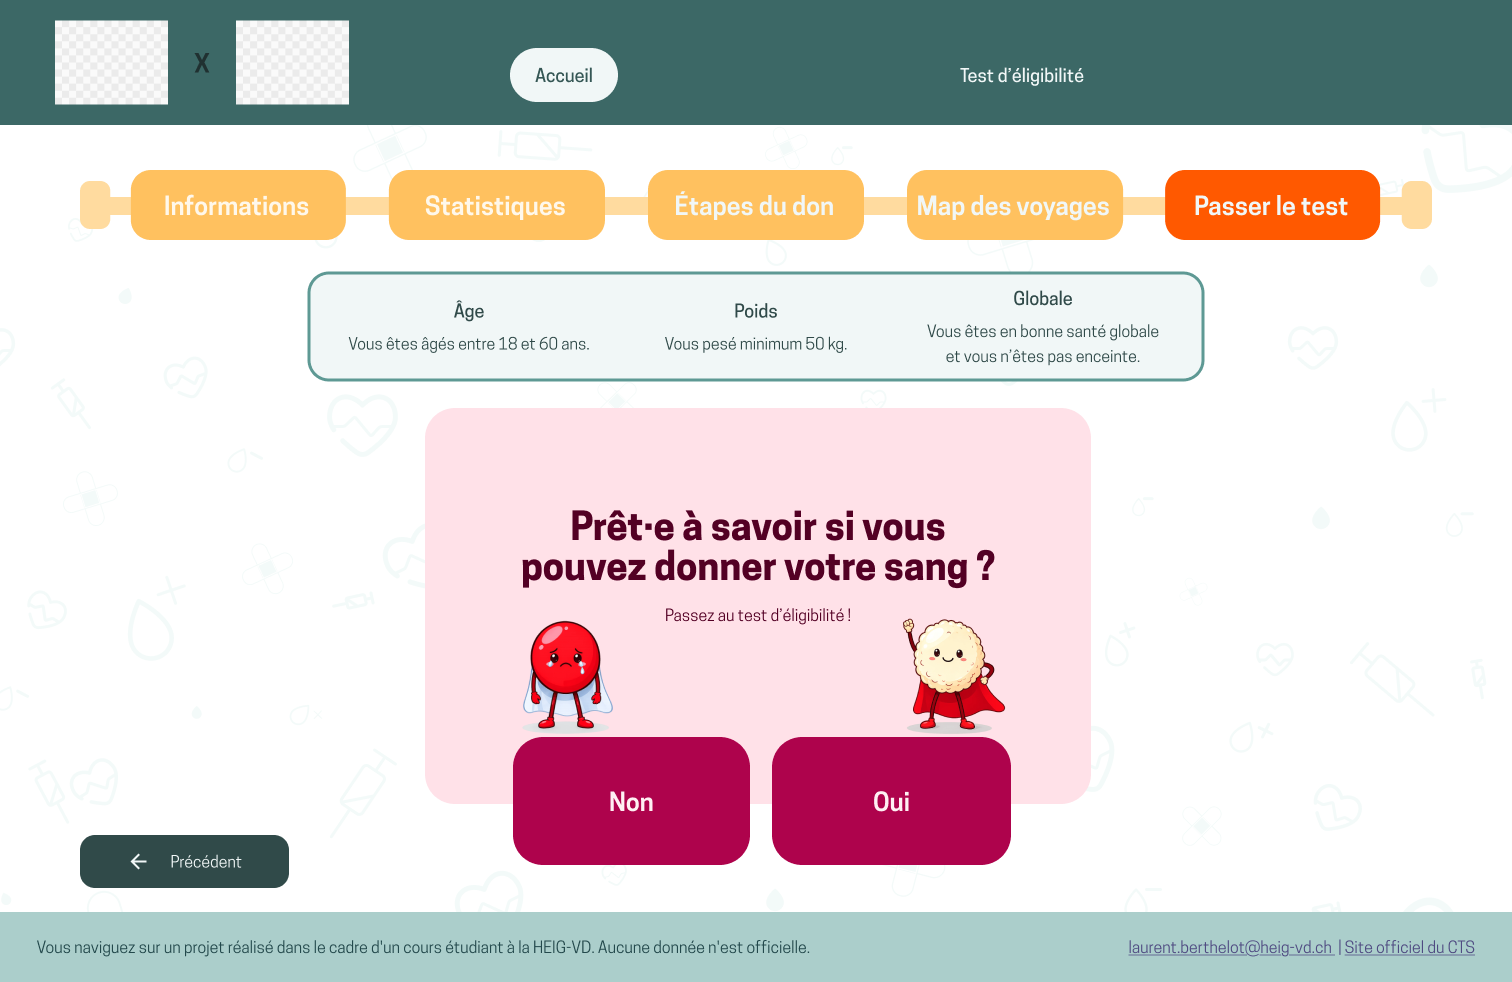
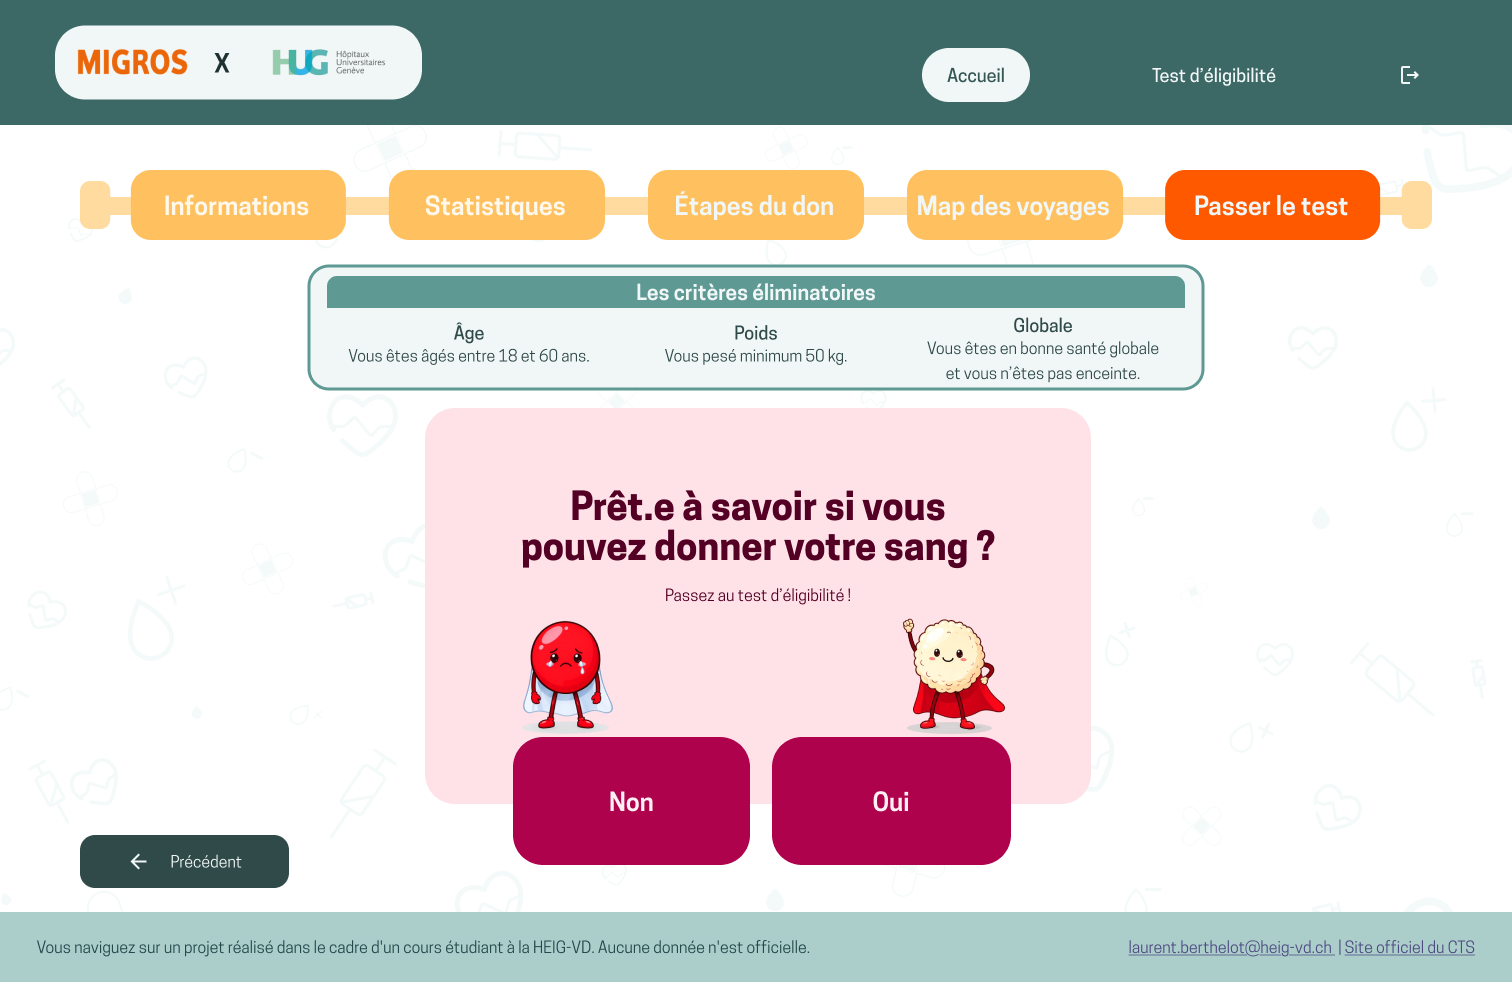
pages co-brandé

diff --git a/resources/js/components/co-branded/tabs/CoBrandedTestTab.vue b/resources/js/components/co-branded/tabs/CoBrandedTestTab.vue
@@ -1,7 +1,5 @@
 <script setup lang="ts">
 import { ref } from 'vue';
-// TODO: brancher TinderEligibilityPrototype quand started === true
-// import TinderEligibilityPrototype from '../../tinder-cards/TinderEligibilityPrototype.vue';
 
 const started = ref(false);
 
@@ -14,43 +12,53 @@ const criteria = [
 
 <template>
     <section class="mx-auto max-w-3xl px-6 py-10">
-        <!-- Critères d'éligibilité -->
-        <div class="rounded-2xl border-2 border-catskillwhite-400 bg-catskillwhite-100 p-6">
-            <div class="grid gap-4 sm:grid-cols-3 sm:divide-x sm:divide-catskillwhite-400">
+        <!-- Critères éliminatoires : carte avec bandeau de titre catskillwhite-800 + 3 colonnes -->
+        <div class="overflow-hidden rounded-2xl border-2 border-catskillwhite-800">
+            <div class="bg-catskillwhite-800 px-6 py-2 text-center">
+                <h3 class="text-body font-semibold text-white">Les critères éliminatoires</h3>
+            </div>
+            <div class="grid gap-4 bg-white p-6 sm:grid-cols-3 sm:divide-x sm:divide-catskillwhite-300">
                 <div
                     v-for="(item, idx) in criteria"
                     :key="idx"
                     class="px-4 text-center"
                 >
-                    <h3 class="text-heading-t3 text-catskillwhite-900">{{ item.title }}</h3>
+                    <h4 class="text-heading-t3 text-catskillwhite-900">{{ item.title }}</h4>
                     <p class="mt-1 text-caption text-catskillwhite-700">{{ item.description }}</p>
                 </div>
             </div>
         </div>
 
-        <!-- Card Oui/Non -->
+        <!-- Card "Prêt·e à savoir..." -->
         <div
             v-if="!started"
-            class="mt-10 rounded-2xl bg-razzmatazz-200 p-10 text-center"
+            class="mt-10 rounded-2xl bg-razzmatazz-200 px-6 py-10 text-center sm:px-12"
         >
             <h2 class="text-display text-catskillwhite-900">
-                Prêt·e à savoir si vous pouvez donner votre sang ?
+                Prêt·e à savoir si vous<br>pouvez donner votre sang ?
             </h2>
-            <p class="mt-3 text-body text-catskillwhite-800">
+            <p class="mt-3 text-caption text-catskillwhite-800">
                 Passez au test d'éligibilité !
             </p>
 
-            <div class="mt-8 flex justify-center gap-4">
+            <!-- Mascottes au-dessus, qui débordent légèrement sur les boutons -->
+            <div class="mt-8 flex justify-center gap-16 sm:gap-28">
+                <img :src="'/img/mascots/sanguy_devastated.webp'" alt="" class="h-24 w-auto sm:h-28" />
+                <img :src="'/img/mascots/blutly_run.webp'" alt="" class="h-24 w-auto sm:h-28" />
+            </div>
+
+            <!-- Boutons Non / Oui — remontés pour passer derrière le bas des mascottes -->
+            <div class="-mt-6 flex justify-center gap-4">
                 <button
                     type="button"
-                    class="rounded-2xl bg-razzmatazz-700 px-12 py-3 text-body font-semibold text-white transition hover:bg-razzmatazz-800"
+                    class="min-w-32 rounded-2xl bg-razzmatazz-800 px-10 py-4 text-heading-t2 font-semibold text-white transition hover:bg-razzmatazz-900 sm:min-w-40"
                     @click="started = false"
                 >
                     Non
                 </button>
                 <button
                     type="button"
-                    class="rounded-2xl bg-razzmatazz-700 px-12 py-3 text-body font-semibold text-white transition hover:bg-razzmatazz-800"
+                    class="min-w-32 rounded-2xl bg-razzmatazz-800 px-10 py-4 text-heading-t2 font-semibold text-white transition hover:bg-razzmatazz-900 sm:min-w-40"
                     @click="started = true"
                 >
                     Oui
@@ -58,9 +66,8 @@ const criteria = [
             </div>
         </div>
 
-        <!-- Test (à brancher sur TinderEligibilityPrototype) -->
+        <!-- Test placeholder (à brancher sur TinderEligibilityPrototype) -->
         <div v-else class="mt-10 rounded-2xl border-2 border-catskillwhite-400 bg-catskillwhite-100 p-10 text-center">
-            <!-- <TinderEligibilityPrototype /> -->
             <p class="text-body text-catskillwhite-700">Test à brancher ici.</p>
             <button
                 type="button"

diff --git a/resources/js/components/co-branded/tabs/CoBrandedStatisticsTab.vue b/resources/js/components/co-branded/tabs/CoBrandedStatisticsTab.vue
@@ -1,34 +1,65 @@
 <script setup lang="ts">
+import { ref } from 'vue';
+
 const stats = [
     {
         title: '700 dons par jour sont nécessaires en Suisse',
         description:
             'Chaque jour, des patient·es ont besoin de sang pour des opérations, des traitements contre le cancer, les accidents ou les maladies du sang.',
+        mascot: '/img/mascots/sanguy_above.webp',
     },
     {
         title: '2,5 % de la population donne régulièrement',
         description:
             'Les réserves de sang reposent sur une petite partie de la population engagée dans des collectes régulières.',
+        mascot: '/img/mascots/blutly_above.webp',
     },
     {
         title: 'Près d\'un don sur deux vient d\'une collecte mobile',
         description:
             'Les collectes organisées en entreprise jouent un rôle essentiel pour atteindre les bénévoles sur leur lieu de travail.',
+        mascot: '/img/mascots/sanguy_above.webp',
     },
 ];
+
+// Une seule carte active à la fois ; 1ère carte (index 0) activée par défaut
+const activeIdx = ref(0);
 </script>
 
 <template>
-    <section class="mx-auto max-w-5xl px-6 py-10">
-        <div class="grid gap-6 sm:grid-cols-3">
-            <article
+    <section class="mx-auto max-w-5xl px-6 py-10 pt-24 sm:pt-32">
+        <div
+            class="grid gap-6 sm:grid-cols-3"
+            @mouseleave="activeIdx = 0"
+        >
+            <div
                 v-for="(stat, idx) in stats"
                 :key="idx"
-                class="rounded-2xl border-2 border-catskillwhite-400 bg-catskillwhite-100 p-6 text-center"
+                class="relative"
+                @mouseenter="activeIdx = idx"
             >
-                <h3 class="text-heading-t3 text-catskillwhite-900">{{ stat.title }}</h3>
-                <p class="mt-3 text-caption text-catskillwhite-700">{{ stat.description }}</p>
-            </article>
+                <!-- Mascotte au-dessus, visible uniquement sur la carte active -->
+                <img
+                    :src="stat.mascot"
+                    alt=""
+                    :class="[
+                        'pointer-events-none absolute -top-24 left-1/2 h-24 w-auto -translate-x-1/2 transition-opacity duration-200 sm:-top-28 sm:h-28',
+                        activeIdx === idx ? 'opacity-100' : 'opacity-0',
+                    ]"
+                />
+
+                <article
+                    :class="[
+                        'flex h-full flex-col items-center rounded-2xl border-2 border-catskillwhite-800 px-8 py-10 text-center transition-colors',
+                        activeIdx === idx ? 'bg-catskillwhite-200' : 'bg-catskillwhite-50',
+                    ]"
+                >
+                    <div class="rounded-xl bg-catskillwhite-800 px-5 py-2 text-white">
+                        <h3 class="text-heading-t2">{{ stat.title }}</h3>
+                    </div>
+                    <p class="mt-6 text-body text-catskillwhite-800">{{ stat.description }}</p>
+                </article>
+            </div>
         </div>
     </section>
 </template>

diff --git a/resources/js/components/co-branded/tabs/CoBrandedStepsTab.vue b/resources/js/components/co-branded/tabs/CoBrandedStepsTab.vue
@@ -24,24 +24,35 @@ const steps = [
             'Un temps de repos et une collation vous sont proposés et fortement conseillés.',
     },
 ];
+
+const mascot = '/img/mascots/sanguy_satisfied.webp';
 </script>
 
 <template>
-    <section class="mx-auto max-w-5xl px-6 py-10">
+    <section class="mx-auto max-w-5xl px-6 py-10 pt-24 sm:pt-32">
         <div class="grid gap-4 sm:grid-cols-2 lg:grid-cols-4">
-            <article
+            <div
                 v-for="(step, idx) in steps"
                 :key="idx"
-                class="rounded-2xl border-2 border-catskillwhite-400 bg-catskillwhite-100 p-6 text-center"
+                class="group relative"
             >
-                <span
-                    class="material-symbols-outlined text-catskillwhite-800"
-                    style="font-size: 48px;"
-                    aria-hidden="true"
-                >{{ step.icon }}</span>
-                <h3 class="mt-3 text-heading-t3 text-catskillwhite-900">{{ step.title }}</h3>
-                <p class="mt-2 text-caption text-catskillwhite-700">{{ step.description }}</p>
-            </article>
+                <!-- Mascotte au-dessus, apparaît au hover -->
+                <img
+                    :src="mascot"
+                    alt=""
+                    class="pointer-events-none absolute -top-16 left-1/2 h-24 w-auto -translate-x-1/2 opacity-0 transition-opacity duration-200 group-hover:opacity-100 sm:-top-24 sm:h-28"
+                />
+
+                <article class="flex h-full min-h-[280px] flex-col items-center rounded-2xl border-2 border-catskillwhite-800 bg-catskillwhite-50 px-6 py-10 text-center transition-colors group-hover:bg-catskillwhite-200">
+                    <span
+                        class="material-symbols-outlined text-catskillwhite-800"
+                        style="font-size: 48px; font-variation-settings: 'FILL' 1;"
+                        aria-hidden="true"
+                    >{{ step.icon }}</span>
+                    <h3 class="mt-4 text-heading-t1 text-catskillwhite-900">{{ step.title }}</h3>
+                    <p class="mt-3 text-body text-catskillwhite-800">{{ step.description }}</p>
+                </article>
+            </div>
         </div>
     </section>
 </template>

diff --git a/resources/js/pages/co-branded/CoBrandedCollectionPage.vue b/resources/js/pages/co-branded/CoBrandedCollectionPage.vue
@@ -1,7 +1,7 @@
 <script setup lang="ts">
 import { computed, ref } from 'vue';
-import CoBrandedHeader from '../../components/public/CoBrandedHeader.vue';
-import CoBrandedAuthGate from '../../components/public/CoBrandedAuthGate.vue';
+import CoBrandedHeader from '../../components/co-branded/CoBrandedHeader.vue';
+import CoBrandedAuthGate from '../../components/co-branded/CoBrandedAuthGate.vue';
 import CoBrandedTabs from '../../components/co-branded/CoBrandedTabs.vue';
 import CoBrandedFooter from '../../components/co-branded/CoBrandedFooter.vue';
 import CoBrandedInformationTab from '../../components/co-branded/tabs/CoBrandedInformationTab.vue';
@@ -152,7 +152,7 @@ const canNext = computed(() => activeTab.value !== tabs[tabs.length - 1].key);
                     <button
                         v-if="canPrev"
                         type="button"
-                        class="rounded-2xl bg-catskillwhite-800 px-6 py-3 text-body font-semibold text-white transition hover:bg-catskillwhite-900"
+                        class="rounded-2xl bg-catskillwhite-800 px-6 py-3 text-body font-book text-white transition hover:bg-catskillwhite-900"
                         @click="prev"
                     >
                         ← Précédent
@@ -162,7 +162,7 @@ const canNext = computed(() => activeTab.value !== tabs[tabs.length - 1].key);
                     <button
                         v-if="canNext"
                         type="button"
-                        class="rounded-2xl bg-catskillwhite-800 px-6 py-3 text-body font-semibold text-white transition hover:bg-catskillwhite-900"
+                        class="rounded-2xl bg-catskillwhite-800 px-6 py-3 text-body font-book text-white transition hover:bg-catskillwhite-900"
                         @click="next"
                     >
                         Suivant →

diff --git a/resources/js/components/co-branded/CoBrandedHeader.vue b/resources/js/components/co-branded/CoBrandedHeader.vue
@@ -70,7 +70,7 @@ async function logout() {
             <div class="flex items-center gap-3 sm:gap-6">
                 <button
                     type="button"
-                    class="rounded-full bg-white px-5 py-2 text-body font-semibold text-catskillwhite-900 transition hover:bg-catskillwhite-100"
+                    class="rounded-full bg-white px-5 py-2 text-heading-t3 font-medium text-catskillwhite-900 transition hover:bg-catskillwhite-100"
                     @click="$emit('goTest')"
                 >
                     Test d'éligibilité
@@ -78,7 +78,7 @@ async function logout() {
 
                 <button
                     type="button"
-                    class="inline-flex h-9 w-9 items-center justify-center rounded-full text-white transition hover:bg-white/10"
+                    class="inline-flex h-11 w-11 items-center justify-center rounded-full text-white transition hover:bg-white/10"
                     title="Déconnexion"
                     aria-label="Déconnexion"
                     @click="logout"

diff --git a/resources/js/components/co-branded/tabs/CoBrandedInformationTab.vue b/resources/js/components/co-branded/tabs/CoBrandedInformationTab.vue
@@ -103,10 +103,10 @@ const primaryTextStyle = {
             >
                 <div class="flex items-center gap-3">
                     <div
-                        class="inline-flex h-12 w-12 shrink-0 items-center justify-center rounded-full text-white"
+                        class="inline-flex h-10 w-10 shrink-0 items-center justify-center rounded-full text-white"
                         :style="iconBubbleStyle"
                     >
-                        <span class="material-symbols-outlined" style="font-size: 28px;" aria-hidden="true">{{ card.icon }}</span>
+                        <span class="material-symbols-outlined" style="font-size: 24px;" aria-hidden="true">{{ card.icon }}</span>
                     </div>
                     <h3 class="text-heading-t3 text-catskillwhite-900">{{ card.title }}</h3>
                 </div>

diff --git a/resources/js/components/co-branded/CoBrandedTabs.vue b/resources/js/components/co-branded/CoBrandedTabs.vue
@@ -19,7 +19,7 @@ defineEmits<{
                 role="tab"
                 :aria-selected="active === tab.key"
                 :class="[
-                    'rounded-full px-4 py-2 text-body font-semibold transition lg:px-6 lg:py-3',
+                    'rounded-full px-4 py-2 text-heading-t2 transition lg:px-6 lg:py-3',
                     active === tab.key
                         ? 'text-white'
                         : 'text-catskillwhite-900',
